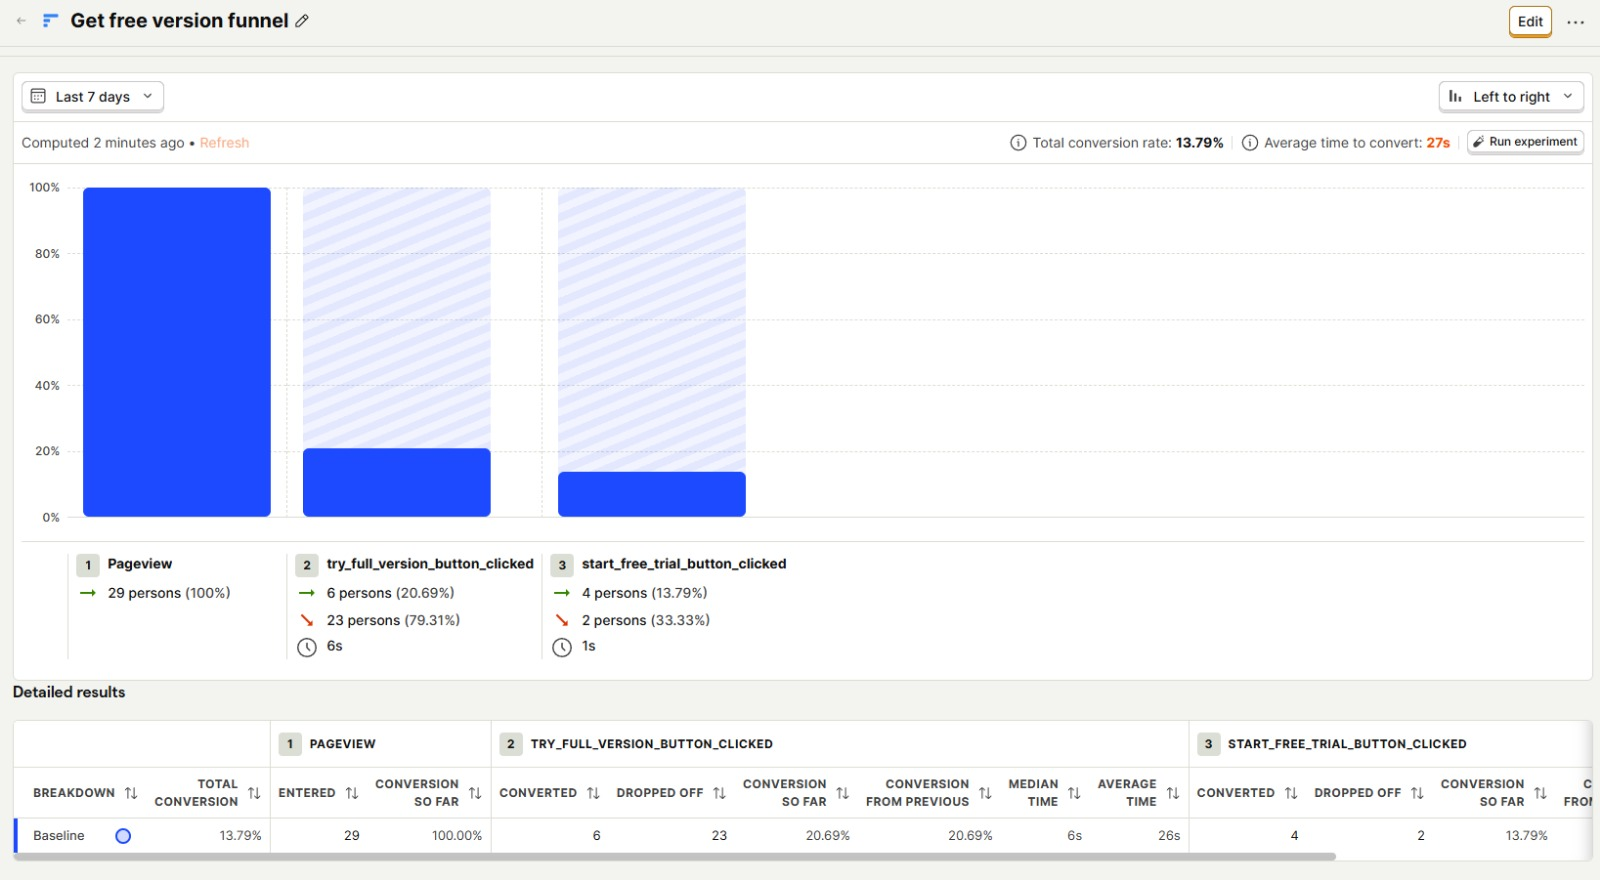
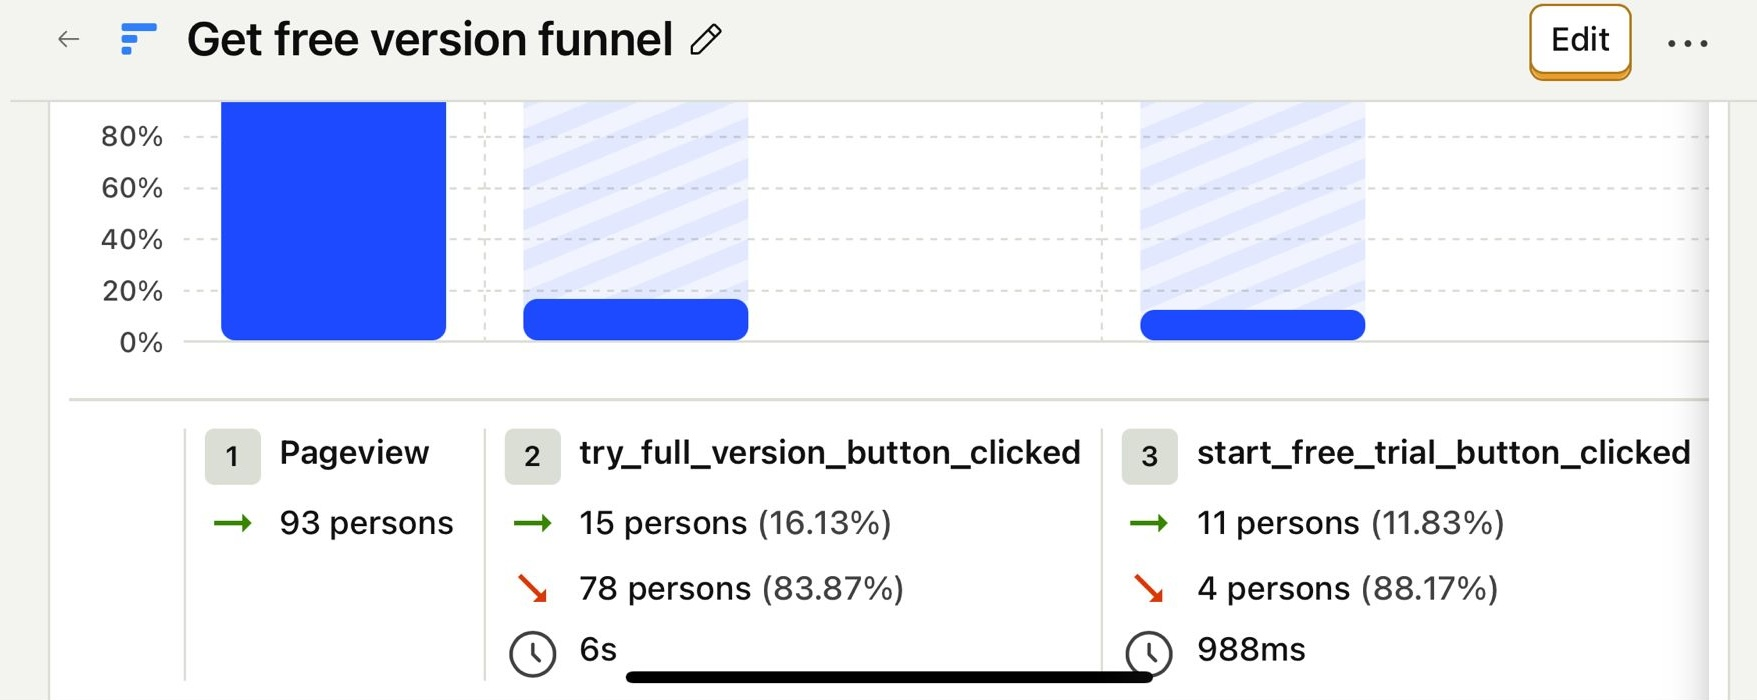
Updated m8 (fully)

diff --git a/docs/m8.md b/docs/m8.md
@@ -26,8 +26,8 @@ To measure how visitors interacted with the MVP, we integrated PostHog, which tr
 ### Funnel 1: Get Full Version Funnel
 
 - Total visitors: 93
-- Clicked "Try Full Version": 15 (~2.7%)
-- Clicked "Start Free Trial": 11 (~13.8%)
+- Clicked "Try Full Version": 15 (~16.13%)
+- Clicked "Start Free Trial": 11 (~11.83%)
 
 A significant portion of users who visited the page showed interest in trying the full version, indicating early willingness to engage with the product.
 
@@ -35,8 +35,8 @@ A significant portion of users who visited the page showed interest in trying th
 
 ### Funnel 2: Using Demo Funnel
 
-- Total visitors: 29
-- Clicked "Demo" button: 5 (~17.2%)
+- Total visitors: 93
+- Clicked "Demo" button: 27 (~29.03%)
 - Uploaded a file successfully: 1
 - Sent a message in the chat: 1
 
@@ -49,6 +49,6 @@ However, the small amount of questions asked in chat led to the addition of some
 
 ## 3. Analysis
 
-- **Interest in full version:** 13.8% of visitors clicked to start a free trial, showing concrete engagement.
+- **Interest in full version:** 11.83% of visitors clicked to start a free trial, showing concrete engagement.
 - **Core MVP usage:** Uploading a file and using the chat indicates the predictive insights and AI feature are attractive.
 - **User feedback potential:** Even without payments, these interactions are strong signals for willingness to try and potentially pay in future iterations.
